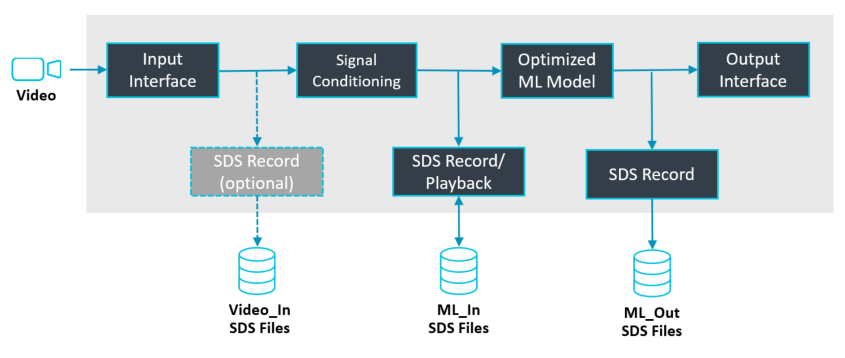
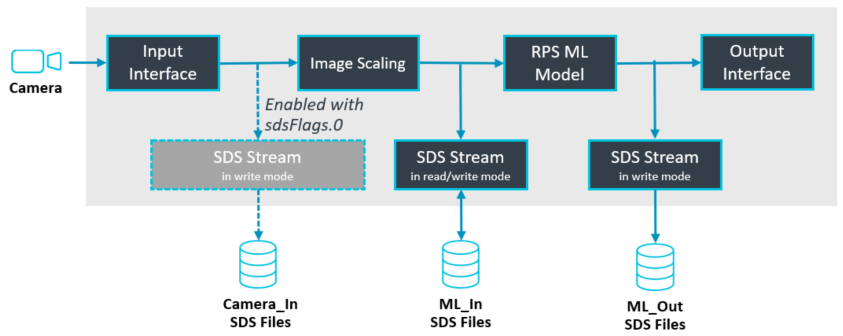
Improved  documentation

Changed region(s): [[0.0, 0.0893, 0.987, 0.9821], [0.6785, 0.4167, 0.8636, 0.9821]]

diff --git a/README.md b/README.md
@@ -9,28 +9,38 @@ This repository shows how to build **Edge AI applications with Cortex-M/Ethos-U-
 
 ## Quick Start
 
-The [RockPaperScissors](./Documentation/README.md) project implements an AI model that detects [three hand gestures](https://en.wikipedia.org/wiki/Rock_paper_scissors) ([RPS_cls_dataset](./RockPaperScissors/RPS_cls_dataset/) provides test data). The [`AppKit-E8_USB/SDS.csolution.yml`](./RockPaperScissors/AppKit-E8_USB/SDS.csolution.yml) project uses the SDS framework for testing the AI model on the Alif AppKit-E8 hardware or an Arm FVP simulation model.
+The [RockPaperScissors (RPS)](./Documentation/README.md) project implements an AI model that detects [three hand gestures](https://en.wikipedia.org/wiki/Rock_paper_scissors) ([RPS_cls_dataset](./RockPaperScissors/RPS_cls_dataset/) provides test data). The [`AppKit-E8_USB/SDS.csolution.yml`](./RockPaperScissors/AppKit-E8_USB/SDS.csolution.yml) project uses the SDS framework for testing the AI model on the Alif AppKit-E8 hardware or an Arm FVP simulation model.
 
 ### Keil MDK
 
-1. Install [Keil Studio for VS Code](https://marketplace.visualstudio.com/items?itemName=Arm.keil-studio-pack) from the VS Code marketplace.
+1. Install [Keil Studio for VS Code](https://marketplace.visualstudio.com/items?itemName=Arm.keil-studio-pack) and [Arm SDS for VS Code](https://marketplace.visualstudio.com/items?itemName=Arm.cmsis-sds) from the VS Code marketplace.
 2. Clone this repository (for example using [Git in VS Code](https://code.visualstudio.com/docs/sourcecontrol/intro-to-git)) or download the ZIP file. Then open the base folder in VS Code.
 3. Open the [CMSIS View](https://mdk-packs.github.io/vscode-cmsis-solution-docs/userinterface.html#2-main-area-of-the-cmsis-view) in VS Code, use *Open Solution in Workspace* (... menu), and choose `RockPaperScissors/AppKit-E8_USB/SDS.csolution.yml` to open the project.
 4. The related tools and software packs are downloaded and installed. Review progress with *View - Output - CMSIS Solution*.
-5. In the CMSIS view, use the [Action buttons](https://github.com/ARM-software/vscode-cmsis-csolution?tab=readme-ov-file#action-buttons) to build, load, and debug the example on the hardware.
+5. In the CMSIS view, use the [Action buttons](https://github.com/ARM-software/vscode-cmsis-csolution?tab=readme-ov-file#action-buttons) to build, load, and debug the example to the [target hardware](./Documentation/README.md#target-hardware).
 
 > [!TIP]
 > If you are new to Alif devices and boards, start with the `Blink_HP` example project using *Create Solution* with the board `Alif AppKit-E8-AIML`.
 
-## Development Steps
+## Application
+
+The diagram below illustrates the RPS application architecture. During algorithm development, the [SDS-Framework](https://www.keil.arm.com/packs/sds-arm) supports recording and playback of data streams for analysis and ML model training.
+
+![Application Structure](./Documentation/image/Application-Structure.png "Application Structure")
+
+### Development Steps
 
 **Create Classic Embedded Application:**
 
 1. [Create the input interface](./Documentation/README.md#input-interface-and-signal-conditioning), add signal conditioning, and start capturing data for ML model training.
-2. [Select an AI model](./Documentation/README.md#create-ai-model), then use the captured data for training, analysis, and creation of the optimized ML model.
-3. [Integrate the AI model](./Documentation/README.md#integrate-ai-model) into the SDS framework and analyze performance.
+2. [Select an ML model](./Documentation/README.md#create-ml-model), then use the captured data for training, analysis, and creation of the optimized ML model.
+3. [Integrate the ML model](./Documentation/README.md#integrate-ml-model) into the SDS framework and analyze performance.
 
 **Test Embedded Application:**
+
+1. [Arm SDS for VS Code](https://marketplace.visualstudio.com/items?itemName=Arm.cmsis-sds) lets you capture the various data streams of the application in [SDS data files](https://arm-software.github.io/SDS-Framework/main/overview.html) for analysis.
+    ![SDS Data View](./Documentation/image/Arm_SDS.png)
+2. The [SDS.sdsio.yml](./RockPaperScissors/AppKit-E8_USB/SDS.sdsio.yml) configuration file defines `play:` steps for regression testing for example with [Contiguous Integration (CI)](#contiguous-integration-ci)
 
 **Create ML Model:**
 
@@ -41,7 +51,7 @@ The [RockPaperScissors](./Documentation/README.md) project implements an AI mode
 ### ModelNova Fusion Studio
 
 1. Download and install [ModelNova Fusion Studio](https://modelnova.ai/fusion-studio-beta).
-2. Launch the application and login to the application using the PAT from the **Get it from here** button 
+2. Launch the application and login to the application using the PAT from the **Get it from here** button
 
     ![ModelNova Fusion Studio Launch Screen](./Documentation/image/login_screen.png "Login Screen")
 
@@ -62,17 +72,17 @@ The [RockPaperScissors](./Documentation/README.md) project implements an AI mode
 
 ## Contiguous Integration (CI)
 
-This repository uses CI Workflows listed below to build artifacts and verify projects. Examples are verified with the build system of Keil Studio that uses the CMSIS-Toolbox and CMake. Using this toolchain supports CI with:
+This repository uses [CI Workflows](https://github.com/Arm-Examples/.github/blob/main/profile/CICD.md) listed below to build artifacts and verify projects. Examples are verified with the build system of Keil Studio that uses the CMSIS-Toolbox and CMake. Using this toolchain supports CI with:
 
 Tool installation based on a single vcpkg-configuration.json file for desktop and CI environments.
 CMSIS solution files (*.csolution.yml) that enable seamless builds in CI, for example using GitHub actions.
 
 CI Workflow                                                          | Description
 :--------------------------------------------------------------------|:---------------------------------------
-[Build_Variants](./.github/workflows/Build_Variants.yml)             | Ensure that everything builds; Build the different context variants: `project.build-type+target-type`
 [Test_RPS_SSE-320-U85](./.github/workflows/Test_RPS_SSE-320-U85.yml) | Build and run image with SDS data input on FVP simulation model
 [Build_RPS_AppKit-E8](./.github/workflows/Build_RPS_AppKit-E8.yml)   | Build image with SystemView enabled for testing on hardware
 [Run_RPS_AppKit-E8](./.github/workflows/Run_RPS_AppKit-E8.yml)       | Run image on hardware with SDSIO-Server and SystemView for timing analysis
+[Build_Variants](./.github/workflows/Build_Variants.yml)             | Ensure that everything builds; Build the different context variants: `project.build-type+target-type`
 
 ## Issues or Questions
 

diff --git a/Documentation/README.md b/Documentation/README.md
@@ -38,6 +38,8 @@ run_inference<br/>▼           |  Project       | Source file `arm_executor_run
 execute<br/>▼                 | Layer AI       | Executes the ML model (the `execute` method is part of ExecuTorch).
 postprocess                   |  Project       | Source file `sds_algorithm_user.cpp` calls `postprocess()` to print the results.
 
+## Target Hardware
+
 The project runs on the [Alif AppKit-E8-AIML](https://www.keil.arm.com/boards/alif-semiconductor-appkit-e8-aiml-a-b437af7/features/).
 
 - The USB SoC interface connects to the [SDSIO-Server](https://arm-software.github.io/SDS-Framework/main/utilities.html#sdsio-server) and is used to record and play back SDS files.